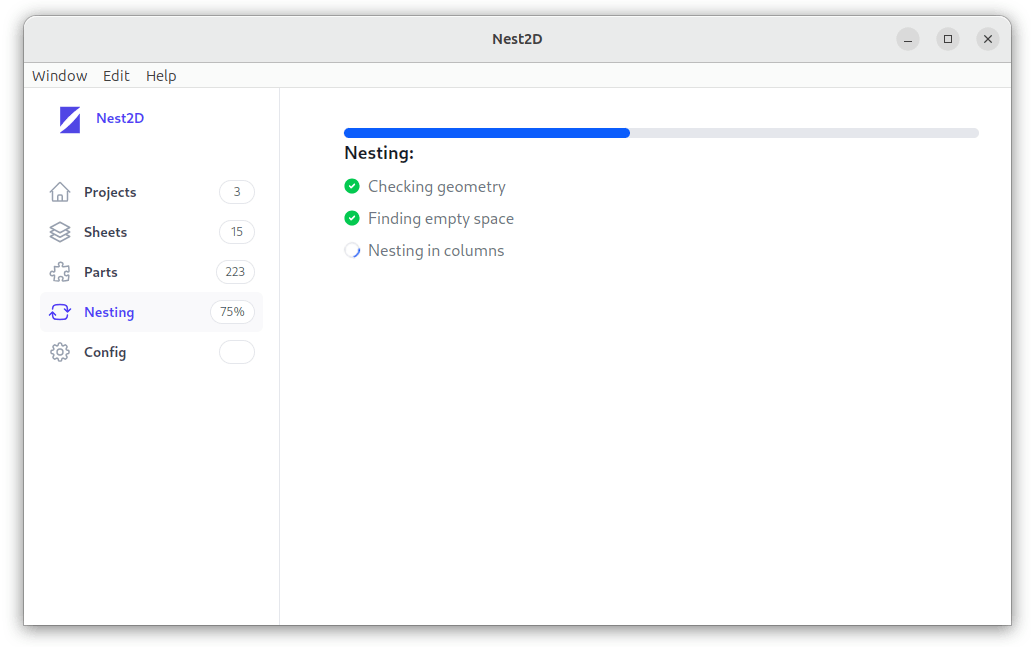
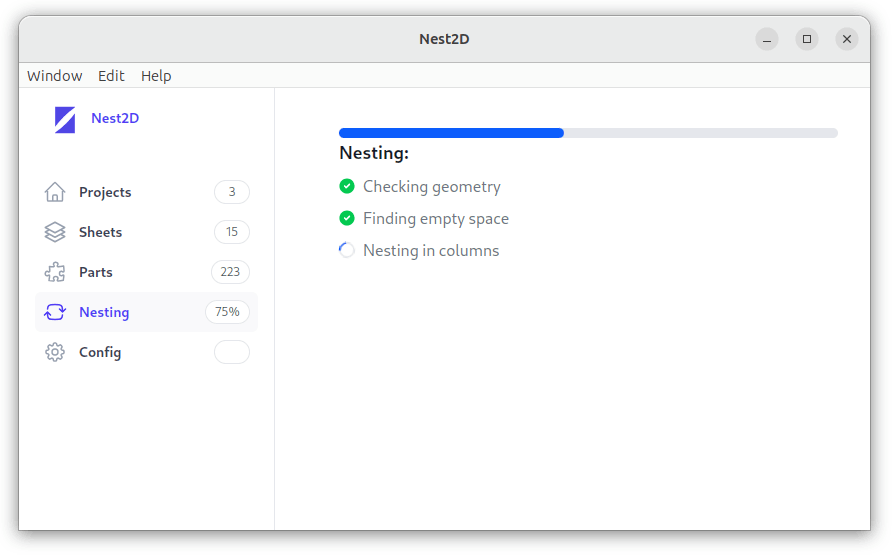
screenshot change

diff --git a/README.md b/README.md
@@ -1,9 +1,8 @@
 # UI for the Nest2D nesting engine
 
 
-![Nest2D](nest2d.png?raw=true)
 
-<img src="nest2d.png?raw=true" width="1031" title="Nest2D UI screen" alt="Nest2D UI screen"/>
+<img src="nest2d.png?raw=true" width="895" height="555" title="Nest2D UI screen" alt="Nest2D UI screen"/>
 
 ## Status
 
